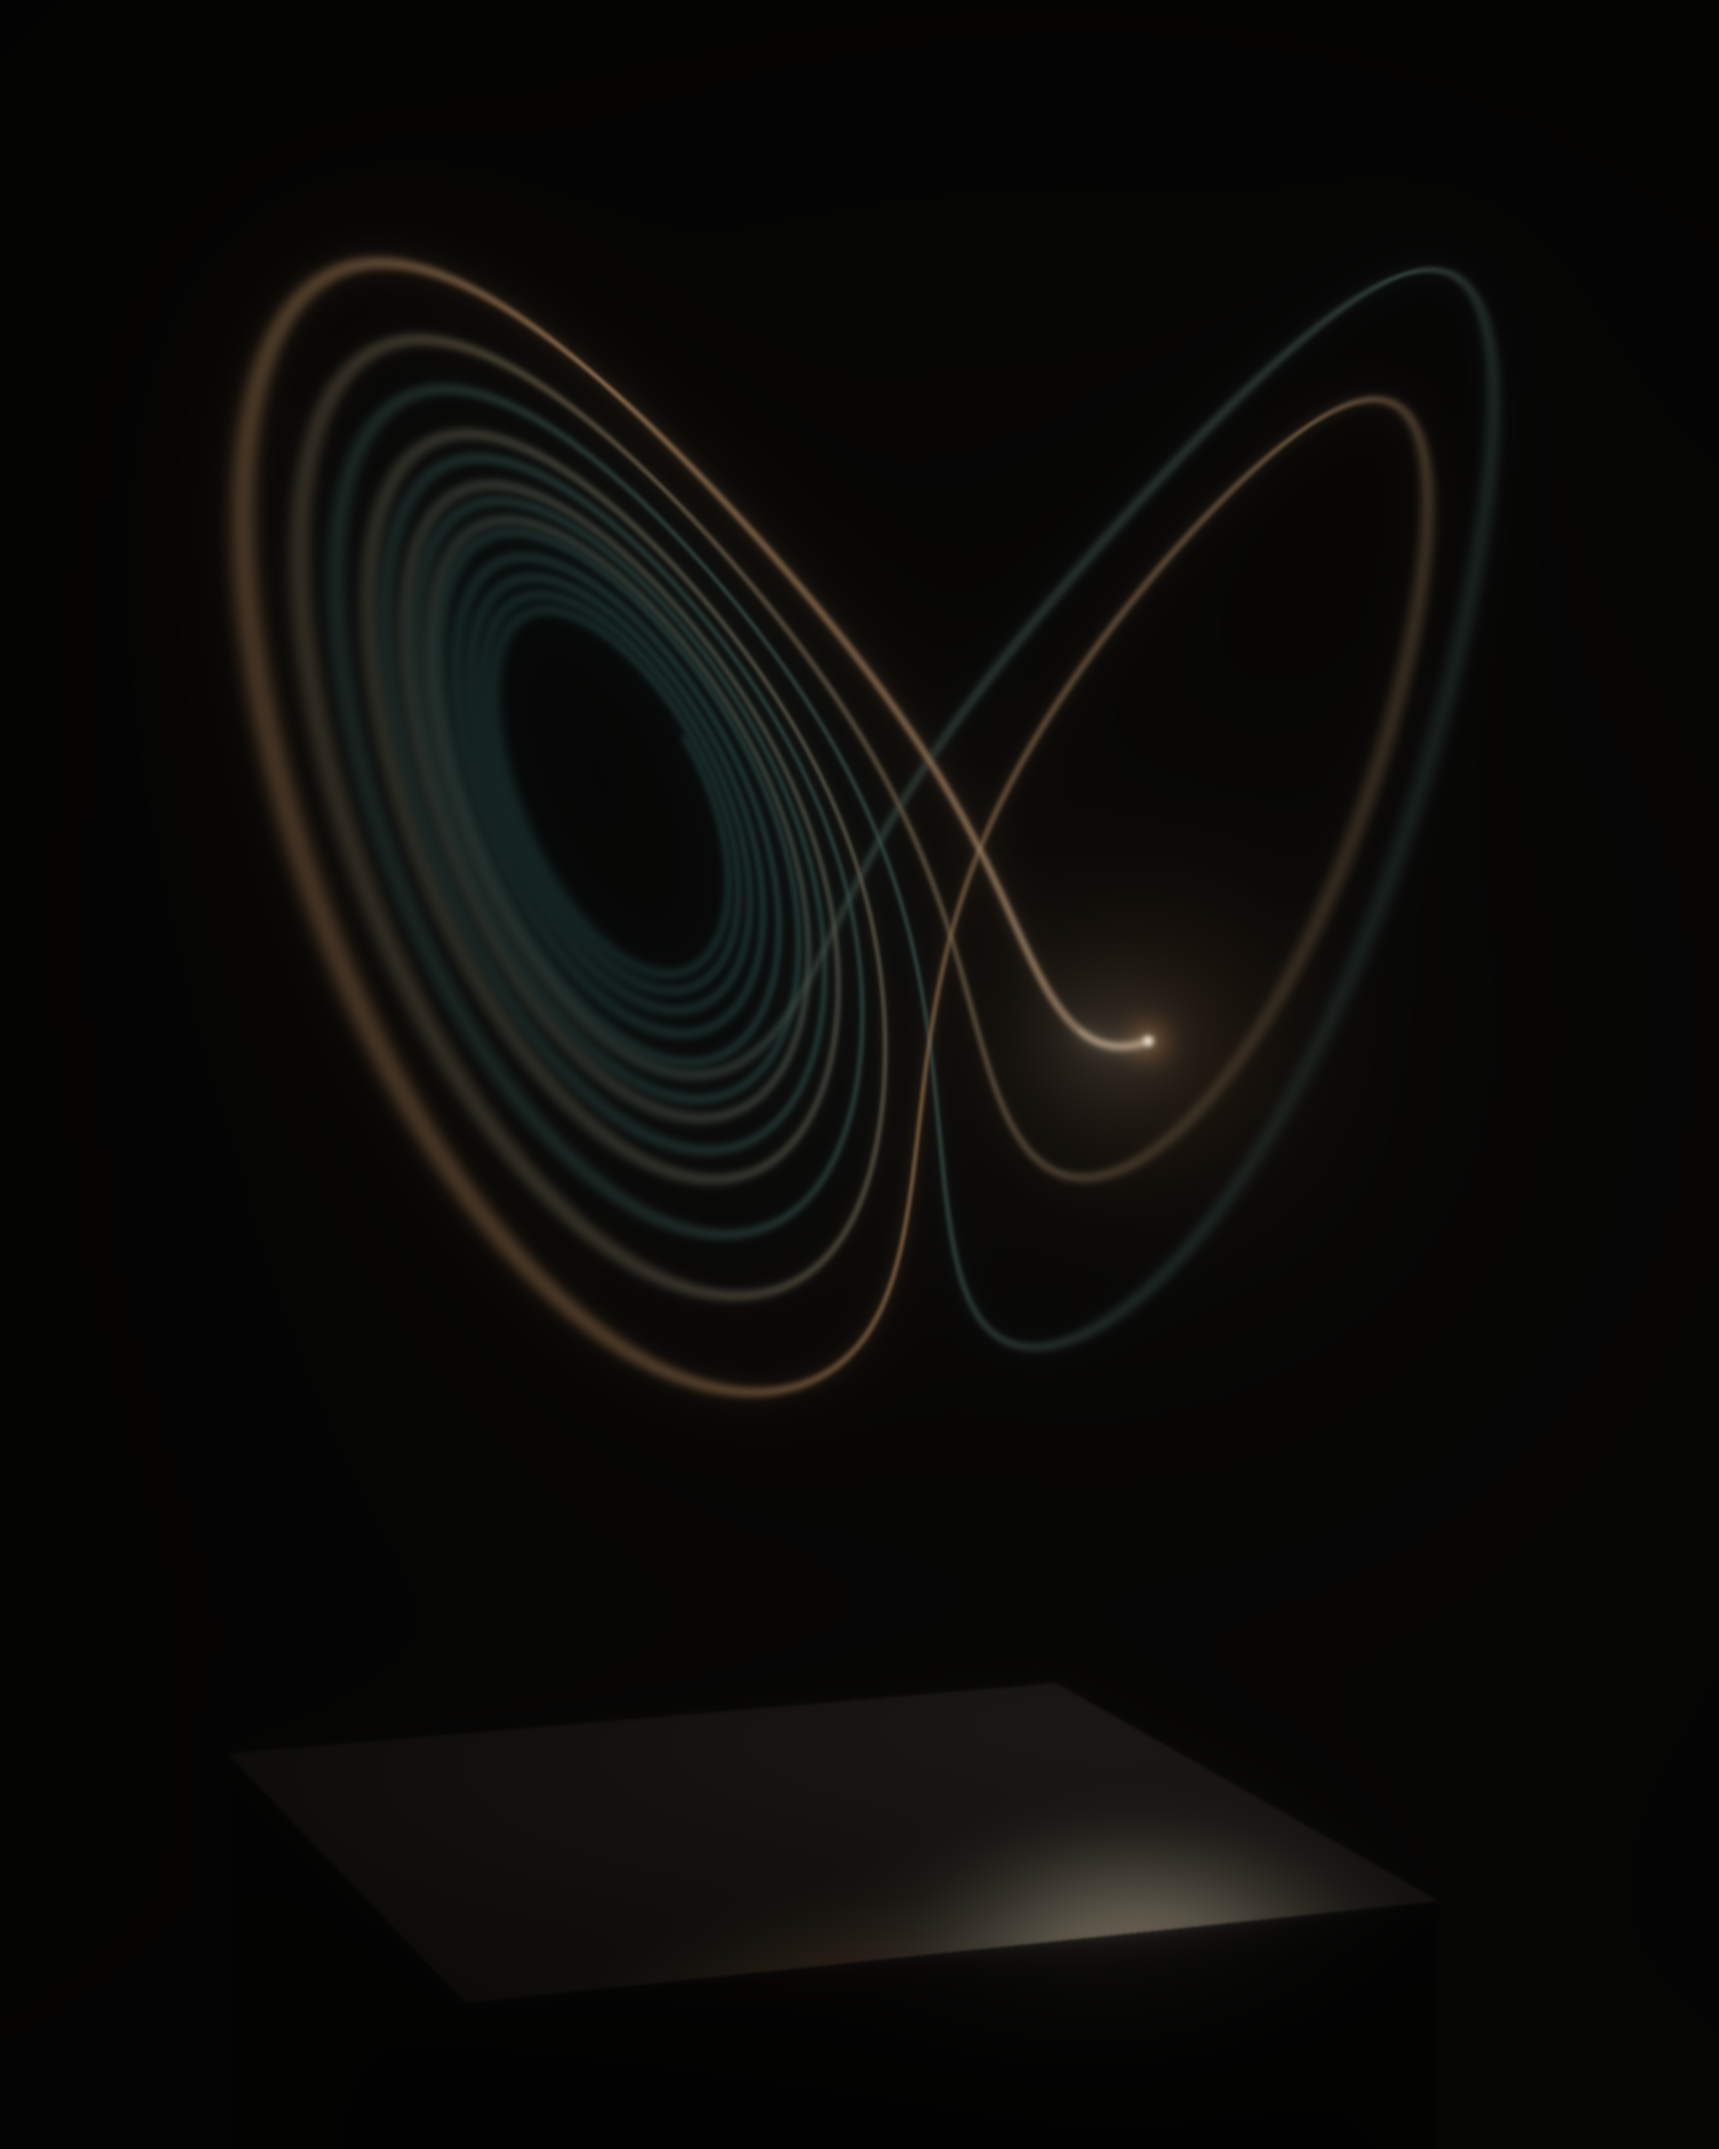
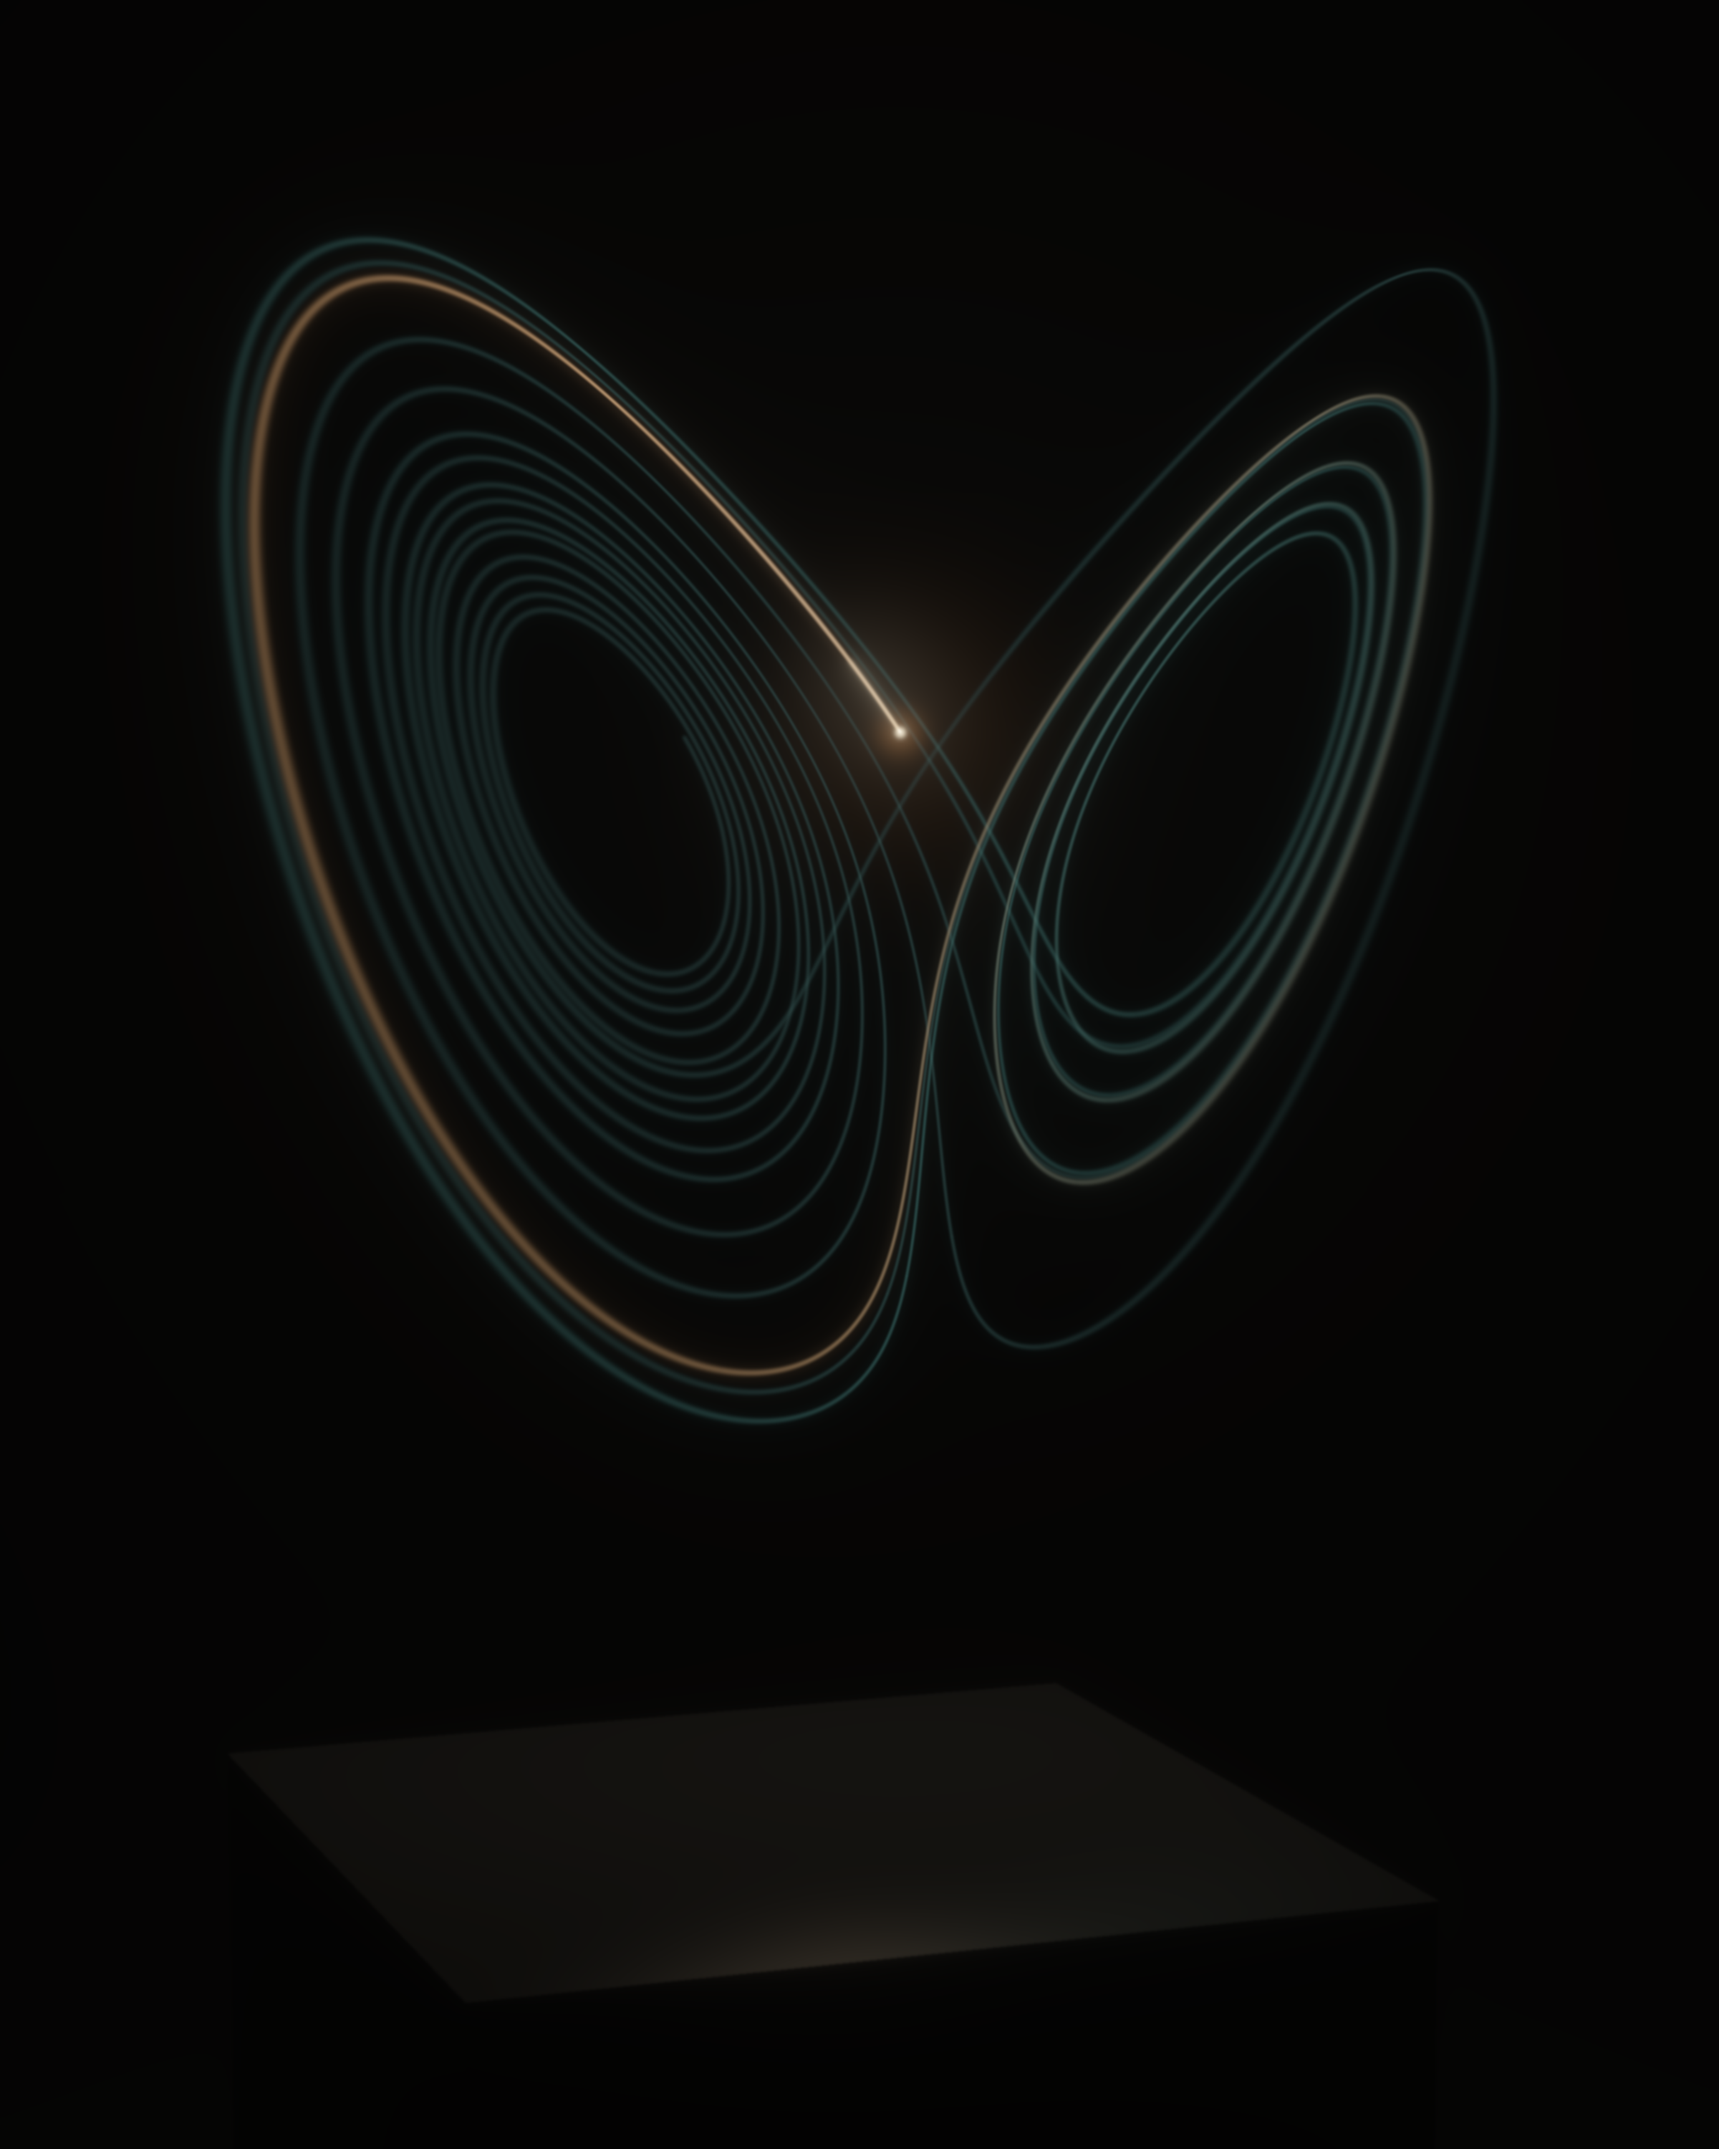
three-worlds: finished stills, triptych, blend scene; finale uses stills
Claude-Session: https://claude.ai/code/session_01FZ9eEJKiTBMDwZEjPmccnv

Changed region(s): [[0.125, 0.093, 0.8125, 0.651], [0.5625, 0.837, 0.75, 0.93], [0.5938, 0.527, 0.625, 0.558]]

diff --git a/three-worlds/src/film.py b/three-worlds/src/film.py
@@ -110,32 +110,34 @@ class Film:
 
     # -- finale ---------------------------------------------------------------
     def panels(self):
+        """The finished 4:5 stills (same camera K, portrait); the light panel is the
+        long exposure left after the head has gone out, coloured by trajectory time."""
         if self._light_final is None:
-            self._ink_final = INK.draw_seal(self.ip.image(), W * 0.5 + 0.30 * H, H * 0.84, 60,
-                                            np.random.default_rng(21))
-            self._light_final = self.LR.frame(T.TRAVEL[1] + 1.0, self.K, head_fade=0.0, long_exposure=0.0, gradient=0.9)
-            self._copper_final = self.copper(self.f1)
+            import stills
+            self._copper_final = load_rgb(C.OUT / "matter_copper.png")
+            self._ink_final = load_rgb(C.OUT / "trace_ink.png")
+            cam = stills.still_camera(1200, 1500)
+            self._light_final = self.LR.frame(T.TRAVEL[1] + 1.0, cam, head_fade=0.0, long_exposure=0.0,
+                                              gradient=0.9, dof=0.45, core=0.6, exposure=1.3)
         return self._copper_final, self._ink_final, self._light_final
 
     def triptych(self, sec, bg):
-        cw = 760                                   # crop width from each 16:9 world
-        ph = 720; pw = int(round(cw * ph / H))
-        gap = 34
+        ph = 700; pw = 560
+        gap = 30
         x0 = (W - (3 * pw + 2 * gap)) // 2
-        y0 = 96
+        y0 = 84
         out = bg.copy()
         for i, img in enumerate(self.panels()):
             a = ramp(sec, 26.0 + 0.3 * i, 26.7 + 0.3 * i)
             if a <= 0:
                 continue
-            crop = img[:, (W - cw) // 2:(W + cw) // 2]
-            tile = np.asarray(Image.fromarray((crop * 255).astype(np.uint8)).resize((pw, ph), Image.LANCZOS),
+            tile = np.asarray(Image.fromarray((np.clip(img, 0, 1) * 255).astype(np.uint8)).resize((pw, ph), Image.LANCZOS),
                               np.float32) / 255
             x = x0 + i * (pw + gap)
             out[y0:y0 + ph, x:x + pw] = out[y0:y0 + ph, x:x + pw] * (1 - a) + tile * a
         a = window(sec, 27.0, 30.0, 0.7)
         if a > 0:
-            y = y0 + ph + 30
+            y = y0 + ph + 34
             out = over(out, text_layer([
                 ("ONE EQUATION, THREE WORLDS", 34, False, y, 7, None),
                 ("Matter  ·  Trace  ·  Energy", 25, True, y + 52, 1.5, None),

diff --git a/three-worlds/src/stills.py b/three-worlds/src/stills.py
@@ -37,11 +37,11 @@ def ink_still(out):
     Image.fromarray((np.clip(rgb, 0, 1) * 255 + 0.5).astype(np.uint8)).save(out)
 
 
-def light_still(out, sec=22.6, lx=0.12, exposure=1.6):
+def light_still(out, sec=24.0, lx=0.12, exposure=2.1):
     import light as L
     cam = still_camera()
     R = L.LightRenderer()
-    im = R.frame(sec, cam, head_fade=1.0, long_exposure=lx, exposure=exposure)
+    im = R.frame(sec, cam, head_fade=1.0, long_exposure=lx, exposure=exposure, dof=0.45, core=0.5)
     Image.fromarray((im * 255 + 0.5).astype(np.uint8)).save(out)
 
 
@@ -81,16 +81,16 @@ def triptych(paths, out, scale=1.0):
     spaced("Matter  ·  Trace  ·  Energy", f2, y + int(0.055 * h), int(0.002 * h), (190, 180, 166))
     spaced("dx/dt = σ(y − x),  dy/dt = x(ρ − z) − y,  dz/dt = xy − βz   ·   σ = 10, ρ = 28, β = 8/3   ·   "
            "from (1, 1, 1), t = 8 → 27", f2, y + int(0.095 * h), int(0.001 * h), (150, 142, 132))
-    canvas.save(out)
+    canvas.save(out, quality=93) if str(out).endswith('.jpg') else canvas.save(out)
 
 
 if __name__ == "__main__":
     ap = argparse.ArgumentParser()
     ap.add_argument("what")
     ap.add_argument("--samples", type=int, default=128)
-    ap.add_argument("--sec", type=float, default=22.6)
+    ap.add_argument("--sec", type=float, default=24.0)
     ap.add_argument("--lx", type=float, default=0.12)
-    ap.add_argument("--exposure", type=float, default=1.6)
+    ap.add_argument("--exposure", type=float, default=2.1)
     ap.add_argument("--out", default=None)
     a = ap.parse_args()
     O = C.OUT
@@ -102,6 +102,6 @@ if __name__ == "__main__":
         copper_still(a.out or O / "matter_copper.png", a.samples)
     elif a.what == "triptych":
         triptych([O / "matter_copper.png", O / "trace_ink.png", O / "energy_light.png"],
-                 O / "triptych.png")
+                 O / "triptych.jpg")
         triptych([O / "matter_copper.png", O / "trace_ink.png", O / "energy_light.png"],
                  O / "triptych_web.jpg", scale=0.45)

diff --git a/three-worlds/src/light.py b/three-worlds/src/light.py
@@ -190,7 +190,7 @@ class LightRenderer:
         return rgb
 
     def frame(self, sec, cam, exposure=1.0, long_exposure=0.0, head_fade=1.0, trail_gain=1.0,
-              room=True, gradient=0.0):
+              room=True, gradient=0.0, dof=1.0, core=0.75):
         W, H = cam.W, cam.H
         u = H / 1080.0
         img = np.zeros((H, W, 3), np.float32)
@@ -222,7 +222,7 @@ class LightRenderer:
             rgb = rgb + long_exposure * (0.35 * TEAL + 0.12 * AMBER)[None, :]
         # depth of field + distance falloff
         coc = np.abs(deps - cam.focus) / deps * cam.lens / (cam.fstop or 8.0) / cam.sensor * cam.scale_px() * 0.022 * 1.6
-        sig = 0.75 * u + coc * 0.9
+        sig = core * u + coc * 0.9 * dof
         fall = (cam.focus / deps) ** 2
         w = (dsp / (0.5 * u))[:, None] * fall[:, None] * rgb * (0.5 * u)
         keep = (w.max(1) > 1e-5) & (uvs[:, 0] > -20) & (uvs[:, 0] < W + 20) & (uvs[:, 1] > -20) & (uvs[:, 1] < H + 20)

diff --git a/three-worlds/LOG.md b/three-worlds/LOG.md
@@ -10,3 +10,11 @@ Resumable: every render step skips outputs that already exist.
 3. Copper: studies/copper_s01..s08. Fixed Mix-node socket bug (Blender 5 duplicate socket names)
    and grazing-angle sheen on plinth. Canonical camera K = data/camera_canonical.json (az -20, el 6, 50mm).
 4. Film Matter frames rendering: frames/copper (24spp, OIDN), log frames/copper_render.log.
+5. Ink: studies/ink_*; paper relief toned down, bristle brush + load depletion, clearance-aware width,
+   time-toned ink (diluted spiral -> black chaos), pale wash; stroke seed 23 chosen (studies/03_ink_seeds).
+6. Light: splat renderer + room/haze pass; calibrated haze & room, head orb, trail reflection in plinth top.
+7. Film compositor src/film.py; frames/film. Energy act re-timed to join mid-performance at t=18.5
+   (full-segment travel in 6.8 s strobed at ~5 loops/s).
+8. Stills: out/matter_copper (Cycles 128spp, 2400x3000, 25 min; saved copper_sculpture.blend),
+   out/trace_ink, out/energy_light (t≈24 s moment), out/triptych.jpg. Film finale uses these stills.
+9. Remaining: copper orbit frames -> film frames 0-213 -> encode -> final inspection.
